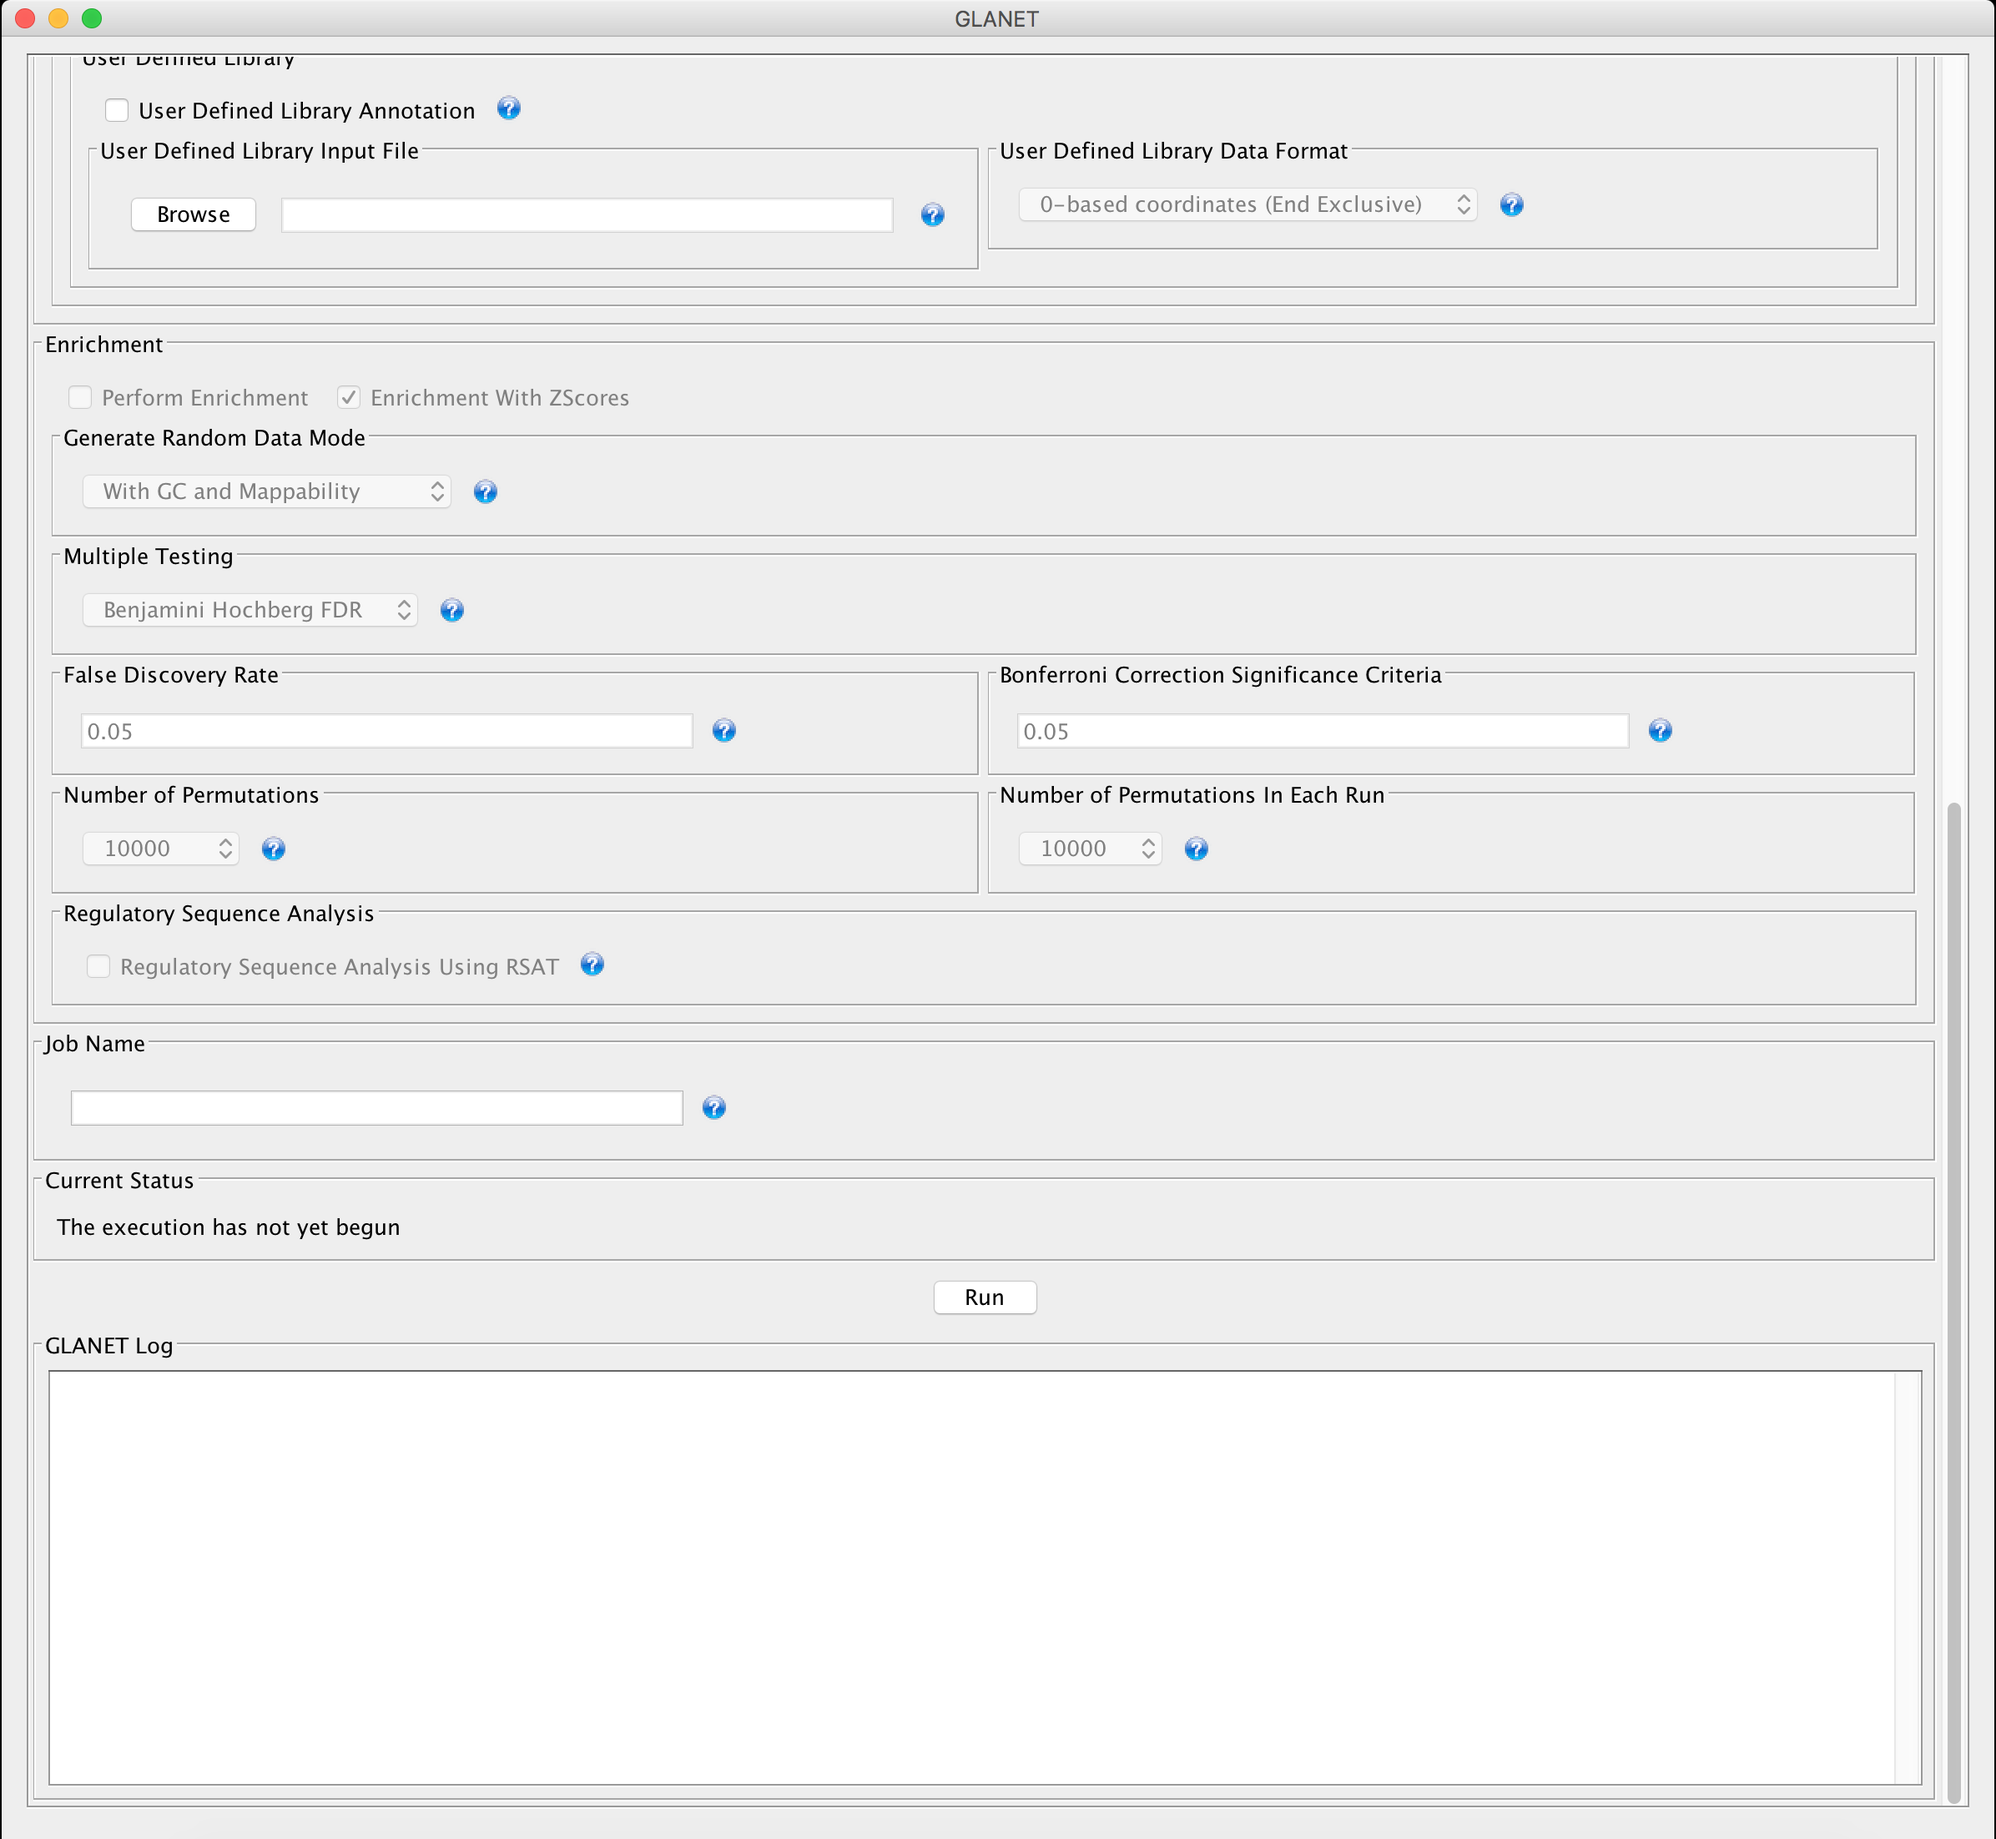
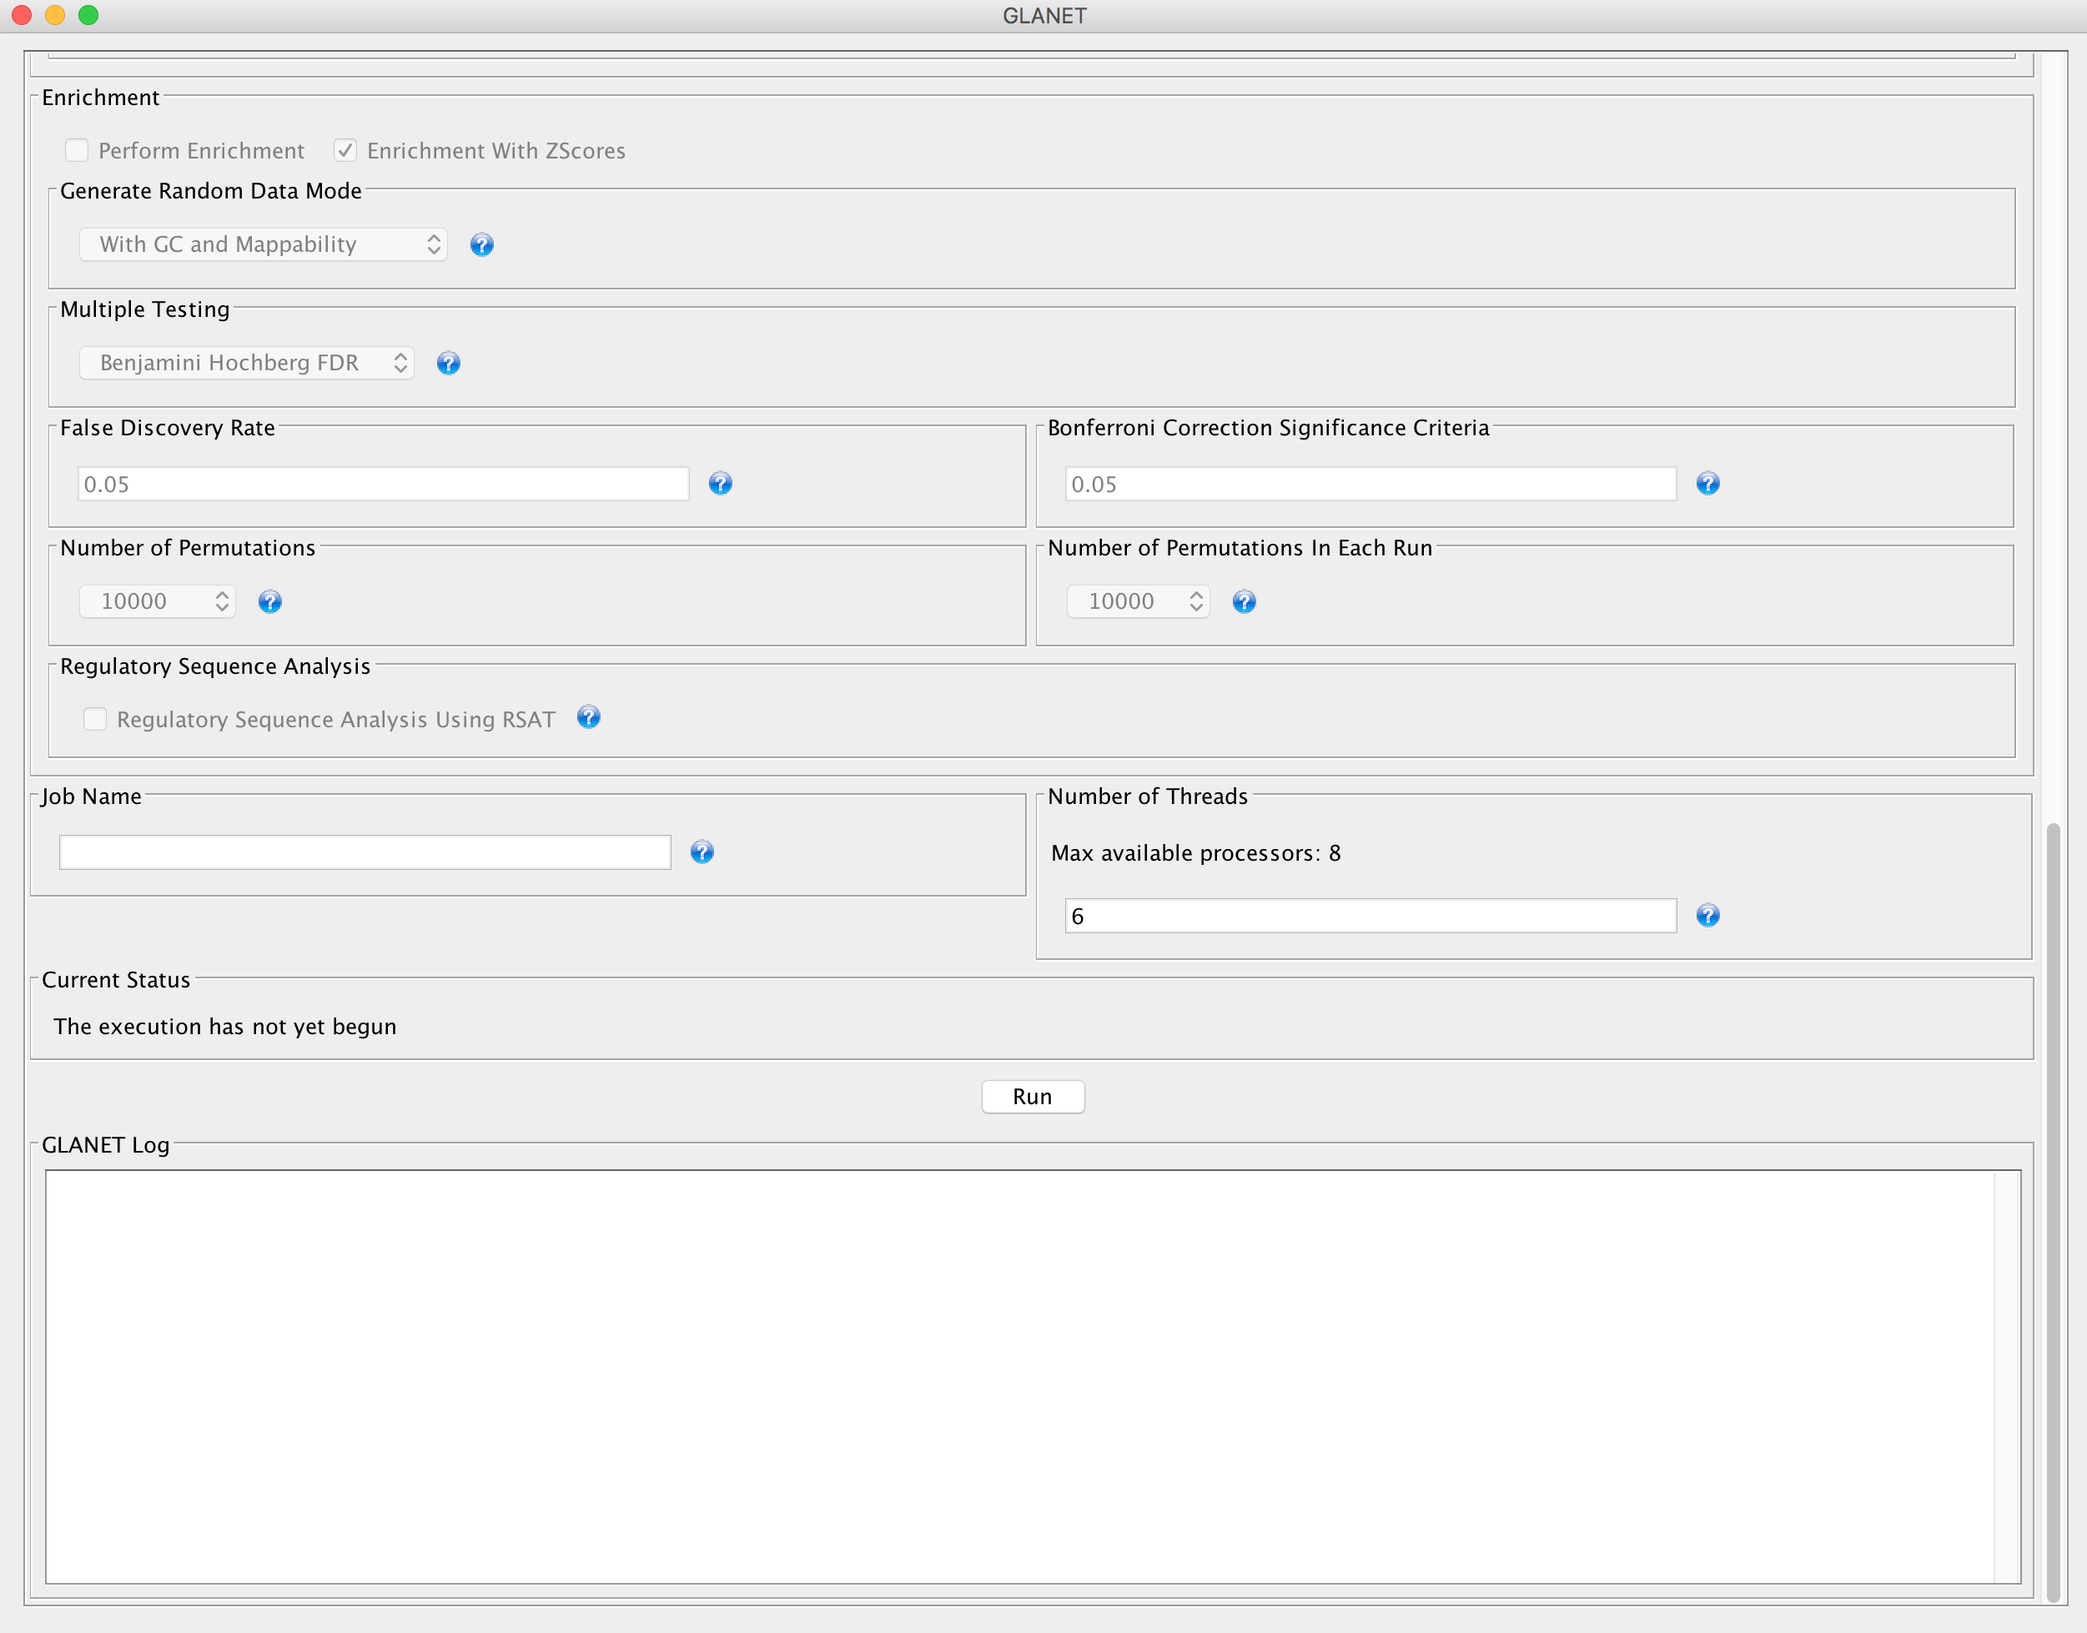
read the docs glanet image and command line  parameters updated

diff --git a/Glanet/src/ui/MainView.java b/Glanet/src/ui/MainView.java
@@ -15,10 +15,7 @@ import java.io.BufferedReader;
 import java.io.File;
 import java.io.FileReader;
 import java.io.IOException;
-import java.text.DecimalFormat;
-import java.text.NumberFormat;
 import java.util.ArrayList;
-import java.util.Locale;
 
 import javax.swing.BorderFactory;
 import javax.swing.BoxLayout;
@@ -29,7 +26,6 @@ import javax.swing.JCheckBox;
 import javax.swing.JComboBox;
 import javax.swing.JComponent;
 import javax.swing.JFileChooser;
-import javax.swing.JFormattedTextField;
 import javax.swing.JLabel;
 import javax.swing.JList;
 import javax.swing.JOptionPane;

diff --git a/Glanet/src/annotation/Annotation.java b/Glanet/src/annotation/Annotation.java
@@ -9465,7 +9465,6 @@ public class Annotation {
 			int numberofComparisonsDnase, char[][] dnaseCellLineNames, char[][] fileNames,
 			WriteElementBasedAnnotationFoundOverlapsMode writeElementBasedAnnotationFoundOverlapsMode, ForkJoinPool pool) {
 
-		pool = new ForkJoinPool(java.lang.Math.min(4, Commons.NUMBER_OF_AVAILABLE_PROCESSORS/2));
 		FindOverlaps findOverlaps;
 		int[] kArray = new int[numberofComparisonsDnase];
 

diff --git a/Glanet/src/enrichment/Enrichment.java b/Glanet/src/enrichment/Enrichment.java
@@ -71,7 +71,6 @@ import java.util.concurrent.ThreadLocalRandom;
 import keggpathway.ncbigenes.KeggPathwayUtility;
 import mapability.ChromosomeBasedMappabilityTroveList;
 
-import org.apache.commons.math3.analysis.function.Min;
 import org.apache.log4j.Logger;
 
 import ui.GlanetRunner;

diff --git a/docs/source/tutorial.rst b/docs/source/tutorial.rst
@@ -264,6 +264,8 @@ Note that parameter "-c" indicates that GLANET will run in command-line mode, no
 +-------------------------+---------------+-------------------+--------------+----------------------+
 | GLANET Folder           | `-g`_         |  Required         | `-c`_        | None ("path/to/file")|
 +-------------------------+---------------+-------------------+--------------+----------------------+
+| Output Folder           | `-o`_         |  Optional         | `-o`_        | GlanetFolder/Output/ |
++-------------------------+---------------+-------------------+--------------+----------------------+
 | Input File Format       | `-f1`_        |  Required         | `-c`_        | `-fbed`_             |
 |                         +---------------+                   |              |                      |
 |                         | `-f0`_        |                   |              |                      |
@@ -366,6 +368,8 @@ Note that parameter "-c" indicates that GLANET will run in command-line mode, no
 +-------------------------+---------------+-------------------+--------------+----------------------+
 | Job Name                | `-j`_         |  Optional         | `-c`_        | "NoName" (String)    |
 +-------------------------+---------------+-------------------+--------------+----------------------+
+| Number of Threads       | `-t`_         |  Optional         | `-t`_        | 80% of all processors|
++-------------------------+---------------+-------------------+--------------+----------------------+
 | Log File                | `-l`_         |  Optional         |              | `-nl`_               |
 |                         +---------------+                   |              |                      |
 |                         | `-nl`_        |                   |              |                      |
@@ -409,6 +413,11 @@ To enable GLANET to run in Terminal or Command Prompt, it must be indicated with
 
 **Required** if :option:`-c` is set. Glanet folder location must be specified just after writing :option`-g`.
 Do not forget that GLANET folder must have the Data folder as sub folder.
+
+-o
+^^
+
+Specifies the output folder where the results will be written under. The folder location must be specified after :option`-o`. If the folder does not exists, GLANET creates one.
 
 -f1
 ^^^
@@ -649,6 +658,11 @@ It creates an output folder with the specified Job Name.
 Results will be collected under this folder. 
 Job Name must be specified as the parameter. 
 If you do not set anything, default option is :option:`-j NoName`.
+
+-t
+^^
+
+This option followed by an integer value sets the number of threads allocated for the GLANET run. If the option is not specified, the default value is the 80% of the all processors available in the system.
 
 -l
 ^^
